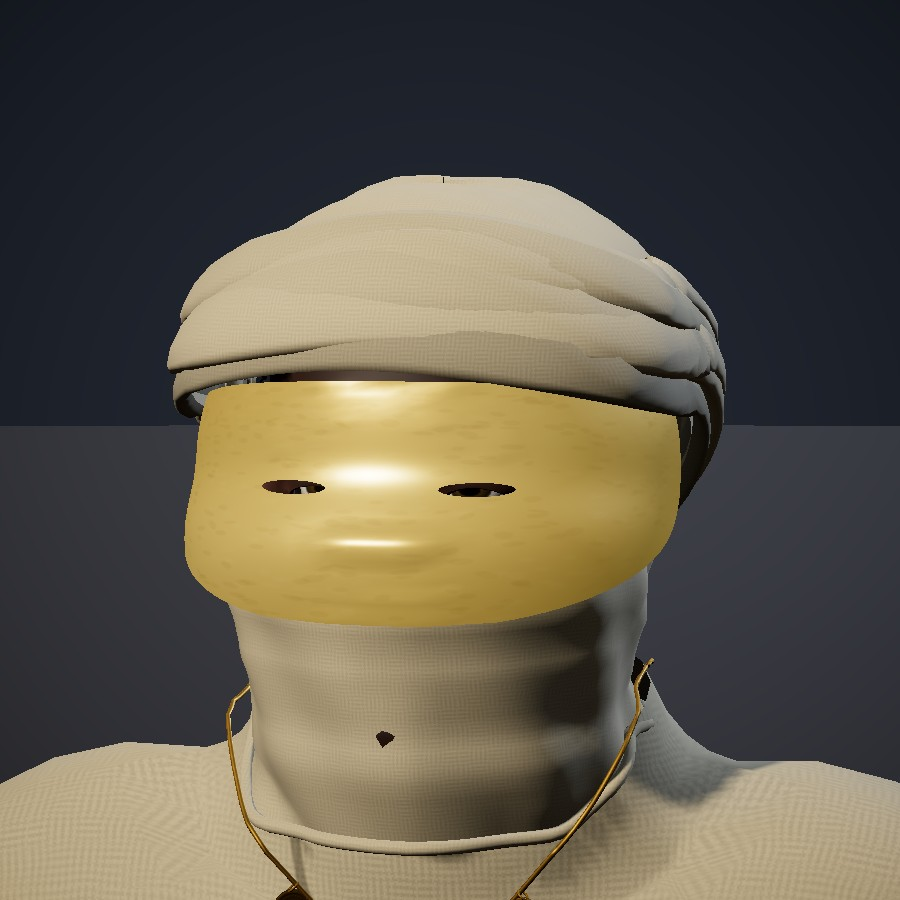
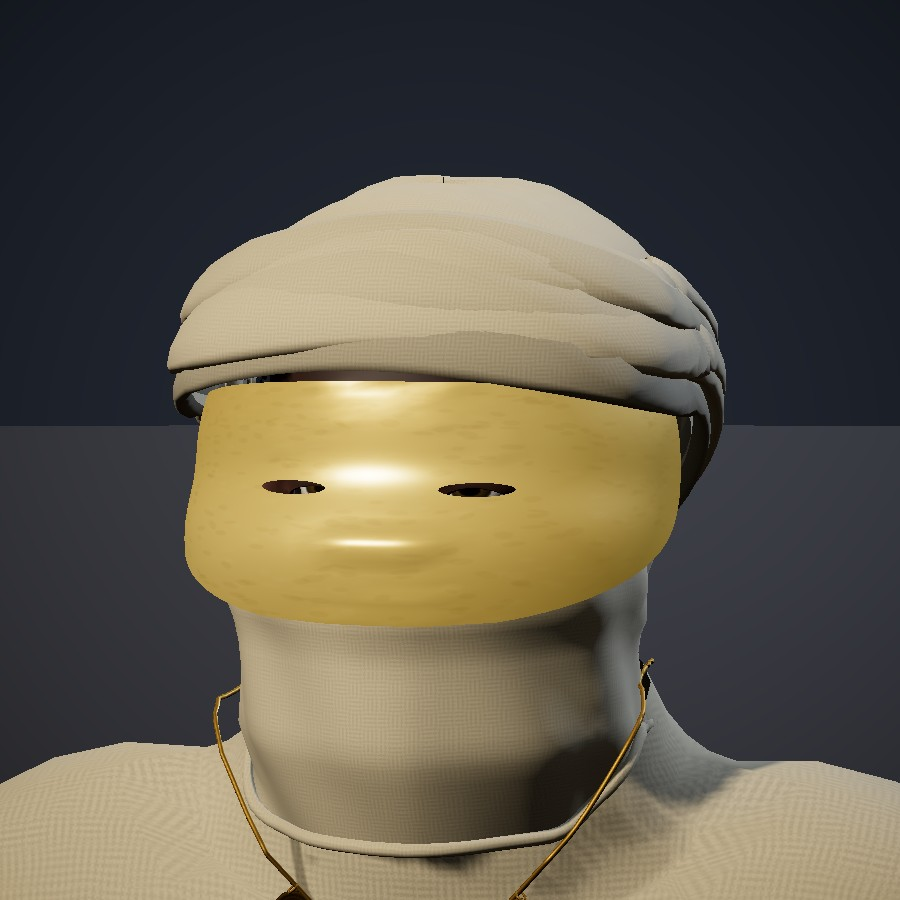
Bodies: Session 2760 — the veil clears the chin as the jaw is posed
Claude-Session: https://claude.ai/code/session_019eFMMohracwibgehk1K4PD

diff --git a/docs/prototypes/levelup/people.js b/docs/prototypes/levelup/people.js
@@ -2093,6 +2093,11 @@ function buildVeil(P, G, heads, byName, meshes, hairPts = []) {
   const put = (x, y, z) => { const b = Math.round((y - y0) / DY); if (b < 0 || b >= NB) return; const a = ((Math.round(Math.atan2(x - c.x, z - c.z) / TAU * NT) % NT) + NT) % NT; M[b * NT + a] = Math.max(M[b * NT + a], Math.hypot(x - c.x, z - c.z)); };
   const pts = []; for (const i of bodyV()) if (R0[i * 3 + 1] > .58 || R0[i * 3 + 1] > .5 && Math.abs(R0[i * 3]) < .08 && R0[i * 3 + 2] > 0) pts.push(V(i)); for (const q of hairPts) pts.push(q);
   for (const m of meshes) if (m.name === 'beard' || m.name === 'moust') { const a = m.geometry.attributes.position.array; for (let i = 0; i < a.length; i += 3) if (a[i + 1] > yLow - .005) pts.push(new THREE.Vector3(a[i], a[i + 1], a[i + 2])); }
+  // S2760 — the pose turns the jaw (pose.jaw, -0.12 rad unless given) after this fit, which brings the chin up to 6 mm forward; the lower face
+  // (under the lips, within the jaw's width) is laid a second time as the jaw will hold it, so the cloth clears both (it put a speck of the
+  // Veiled Merchant's chin through at 0 mm)
+  if (heads['jaw']) { const ja = G.pose?.jaw ?? -.12, J = heads['jaw'], rq = new THREE.Quaternion().setFromAxisAngle(new THREE.Vector3(1, 0, 0), ja);
+    for (const i of bodyV()) if (R0[i * 3 + 1] < .65 && R0[i * 3 + 1] > .55 && R0[i * 3 + 2] > .03 && Math.abs(R0[i * 3]) < .08) pts.push(V(i).sub(J).applyQuaternion(rq).add(J)); }
   for (const q of pts) put(q.x, q.y, q.z);
   // spread each bin over its neighbours, then let the cloth span: never in faster than it falls or goes round
   let S = new Float32Array(M.length); for (let b = 0; b < NB; b++) for (let a = 0; a < NT; a++) { let m = 0; for (let da = -1; da <= 1; da++) for (let db = -1; db <= 1; db++) { const bb2 = b + db; if (bb2 >= 0 && bb2 < NB) m = Math.max(m, M[bb2 * NT + (a + da + NT) % NT]); } S[b * NT + a] = m; }

diff --git a/vendor/people.builder.js b/vendor/people.builder.js
@@ -2391,6 +2391,11 @@ function buildVeil(P, G, heads, byName, meshes, hairPts = []) {
   const put = (x, y, z) => { const b = Math.round((y - y0) / DY); if (b < 0 || b >= NB) return; const a = ((Math.round(Math.atan2(x - c.x, z - c.z) / TAU * NT) % NT) + NT) % NT; M[b * NT + a] = Math.max(M[b * NT + a], Math.hypot(x - c.x, z - c.z)); };
   const pts = []; for (const i of bodyV()) if (R0[i * 3 + 1] > .58 || R0[i * 3 + 1] > .5 && Math.abs(R0[i * 3]) < .08 && R0[i * 3 + 2] > 0) pts.push(V(i)); for (const q of hairPts) pts.push(q);
   for (const m of meshes) if (m.name === 'beard' || m.name === 'moust') { const a = m.geometry.attributes.position.array; for (let i = 0; i < a.length; i += 3) if (a[i + 1] > yLow - .005) pts.push(new THREE.Vector3(a[i], a[i + 1], a[i + 2])); }
+  // S2760 — the pose turns the jaw (pose.jaw, -0.12 rad unless given) after this fit, which brings the chin up to 6 mm forward; the lower face
+  // (under the lips, within the jaw's width) is laid a second time as the jaw will hold it, so the cloth clears both (it put a speck of the
+  // Veiled Merchant's chin through at 0 mm)
+  if (heads['jaw']) { const ja = G.pose?.jaw ?? -.12, J = heads['jaw'], rq = new THREE.Quaternion().setFromAxisAngle(new THREE.Vector3(1, 0, 0), ja);
+    for (const i of bodyV()) if (R0[i * 3 + 1] < .65 && R0[i * 3 + 1] > .55 && R0[i * 3 + 2] > .03 && Math.abs(R0[i * 3]) < .08) pts.push(V(i).sub(J).applyQuaternion(rq).add(J)); }
   for (const q of pts) put(q.x, q.y, q.z);
   // spread each bin over its neighbours, then let the cloth span: never in faster than it falls or goes round
   let S = new Float32Array(M.length); for (let b = 0; b < NB; b++) for (let a = 0; a < NT; a++) { let m = 0; for (let da = -1; da <= 1; da++) for (let db = -1; db <= 1; db++) { const bb2 = b + db; if (bb2 >= 0 && bb2 < NB) m = Math.max(m, M[bb2 * NT + (a + da + NT) % NT]); } S[b * NT + a] = m; }

diff --git a/docs/backlog.md b/docs/backlog.md
@@ -928,7 +928,7 @@ Michael marked all 96 images of the intake on the review page: 63 KEEP and 33 NO
 - **The underworld** (OG-006): an information broker, a river smuggler, a contract killer whose hook cuts both ways, a cheerful goggled fence who knows relics, a highwayman-pilgrim. Fills the crime system's fences and black market. The Church of the Weaver needs its own sign where these sheets draw a cross. **Drafted 26 Oct** (`docs/quest_drafts.md`, *The Underworld*, unapproved): Philo the fence at Port Blackhand, Uallach the broker in Aurenne's capital, Brógán's black market on the Gatelands' river, Eadburh Two-Purses at Caer Slige's yard, Siadhal on the moor road; two rules for the systems builder (honest traders refuse goods stolen in their own town; a named Highwayman yields), the Church's sign a shuttle (canon §4.1). **Dressed in the kit, Session 2307** (Michael's B on #1611, one tell each): the five are `CAST` sheets in `people.js` (`Philo`, `Uallach`, `Brógán`, `Eadburh`, `Siadhal`), with the three tells as kit pieces (`lenses`, `purses`, `shuttle`) (~~the purses' cords slanted 1.3 rad off plumb~~ — fixed, Session 2322: each hangs from its neck, the cord 0.35 rad, the bag swung onto the tunic); they wear them in the game the day the draft's people are placed under those names.
 - **Townsfolk with names** (OG-065, OG-080, OG-089, OG-082): Fen Oisín, Bronwen, Perrin, Síle, Garrick; Tomas, the forager (renamed: Sera is taken), Father Eamon, Jora, Rivel; Mairead and the Salt and Lantern (moved from Ashenmoor, which has no pier), Darragh, Iliana, Brother Caelen, Lyra. Owed with them: names in each people's register, the Aurennais drawn fair recoloured, Garrick's musket a crossbow. **Prototype (concept artist, 20 Nov 2026):** OG-082's five (Mairead, Darragh, Iliana, Brother Caelen, Lyra), A the trade alone, B the sheet's faces and tools (recommended), C in their place with a set piece of the work (`docs/prototypes/levelup/townsfolk.html`; ready to ask, in `docs/concepts.md`).
 - **Travellers** (OG-051): Zahra al-Mahdi, Tavio Rusen, Sister Elidan, Khemrik Voss, Marco di Serra. Khemrik reads the gates, which the Withdrawal forbids: a candidate for one of the awake (§10a). **Drafted 28 Oct** (`docs/quest_drafts.md`, *Travellers*, unapproved): Zahra al-Mahdi's charts and *The Blank at {gate}*; Tidwulf, called Tid (the sheet's Tavio, in the Mark's register), a lair's bounty, his wolf his own; Sister Elidan of the shrines, who buys what the gates give back and asks a ring's name; Cuimín (the sheet's Khemrik, in the Old Blood's), one of the awake at a warm stone's door; Markos Serra (the sheet's Marco), who pays a fifth over for the same relics. One **Rule read** (an item from a gate carries `gate:true`). **The five as the builder's cast, Session 2414** (bodies builder; Michael's B on #1704, the sheet's faces; `people.js` `CAST`: `Zahra`, `Tidwulf`, `Elidan`, `Cuimín`, `Markos`, from the concept artist's `travellers.js` at B): Tid's ram skull lashed to his pack frame (`packSkull`) and Elidan's oak reliquary at her left hip (`reliquary`, hung from the belt or a robe's cord by `hangFromBelt`, the astrolabe's hang made general) are kit pieces now; `travellers.html?cast=1`, `travellers-cast-*.jpg`. Owed: the game, once the draft is approved and its people placed under these names (`hbCastName` then dresses them); Tid's wolf is the creature kit's.
-- **The strange and the legendary** (OG-054, OG-071, OG-079, OG-001's five figures): the Clockwork Pilgrim, the Rooted One, the Veiled Merchant who knows too much, the Painted Woman (different face, same eyes); Tomcán, Nell and her tusked beast, Elias, Branwen, Orvin; the Salt King, Sister Cairde, Red Finn, the Hollow Bard, the Wretched Abbot; the Veiled, the Collector, the Mariner, the Herald, the Child. Wanderers who turn up; several are candidates for the awake. No companions for the player (Michael's 12 A): the Gateborn Companion becomes a wanderer of its own, or is dropped. **Drafted, the first of three runs, 22 Nov** (`docs/quest_drafts.md`, *The Strange and the Legendary, I*, unapproved): OG-054 whole and OG-071's Branwen (the same Rooted One): Fiontán the pilgrim in the brass face (a mask, not a construct), a day behind the player on the road, and his book *The Road a Day Behind*; Bláthnat the Rooted One at a Gatelands shrine's tree, who tells a rare specimen's hour (`learnSpecCond`); the Veiled Merchant, one of the awake, who sells back what the player sold anywhere; the Painted Woman as the towns' talk; the Gateborn Companion dropped (§5, Michael's 12 A). Two **Rule reads** (the day's tally; the buy-back's union). **Michael's C on #1911 (OG-054 as drawn): the wanderers in the kit's cast**, one a session: ~~the Veiled Merchant~~ — done, Session 2759 (`CAST.Veiled`, `builder.html?cast=Veiled`; the face mask a kit piece, `D.mask` gold, brass or construct on the head bone, `buildFaceMask`; `strange-cast-veiled*.jpg`); owed: Fiontán (the construct, the patches, the ledger, the brass hands, the wheel), Bláthnat (the ivy, the birds, the twigs, seated on the root); the stall, the root and the portrait are the look builder's set pieces. **Run II, 23 Nov** (*The Strange and the Legendary, II*, unapproved): OG-071's other four. Tomcán the fool at a gate's mouth once a week, who plays the last thing you killed from its own side and gives his mask after three paid plays; Nell Dammer and Stump, a six-legged dammer (a creature for the bodies builder's kit; until it lands he stays in the river; #1950 B, half out at the bank; ~~his body in the kit~~ — done, Session 2627: `PLANS.dammer` in `creatures.js` and the game's bundle, 37 bones, 30,080 triangles under the coat; his place in the game waits on the run's approval), her wounds bound for raw meat and the Reeve's weir paid; Elias Nikandros, Aurennais, who buys the delvers' journals no shop takes and lends *A Register of the Forgotten*; Ordwin called Ord (renamed from the Norse Orvin), a ferryman at a Markish bridge who rows you over while it is down (S2283) and sends a verse to the Reeve's hall. Three **Rule reads** (where the fool sits; `stats.lastKill`; the crossing). **Run III, 24 Nov** (*The Strange and the Legendary, III*, unapproved): OG-079's four (Red Finn is *The Mark's Rings*'). Fergal Ó Sáile the Salt King, a Gatelander smuggler on a quay at night who tells where the black sails lie and has you carry salt to the island's hungriest village; Sister Cairenn the Gatewalker (renamed from Cairde, *friends*), Old Blood raised in the Gatelands, at a gate's mouth at dusk, who names a gate in the older words and counts the gates you have seen; the Hollow Bard at an inn's hearth, who trades a story of his (a place you have not been) for one of yours and makes yours a ballad (`BOOKS.bard_ballad`); Ammonius the Wretched Abbot of the dissolved Order of the Seal, at a plague town's well, who names the lair the sickness came from and asks you to end it. OG-001's Veiled and Collector are run I's Veiled Merchant and run II's Elias. Two **Rule reads** (where Cairenn stands; the Bard's hearth). **Run IV, 25 Nov** (*The Strange and the Legendary, IV*, unapproved): OG-001's last three. Godric called Knot, the Mariner, a Markman on a quay (8h–18h, a port a fortnight) who reads the water off the quay by `seaHabitat` and sends you down to his old ship (`seaWrecks`, `stats.wrecks`) for *Knot's Soundings*, whose last page is Aurenne's far side; the Herald in the gold sun mask, not the Crown's (Aldwyn says so), who cries in the square at noon what has been done (a stone read, a lair, a road, a bridge, a great gate) and gives *the Herald's Roll* at the seventh cry; Ailbhe, the Child, a Gatelander's daughter in a hill village in whom the Old Blood has come out, who points the way to the nearest warm stone and asks what it said. Two **Rule reads** (where the Herald comes from; the stone Ailbhe points at). The item is drafted whole; the four runs wait on Michael.
+- **The strange and the legendary** (OG-054, OG-071, OG-079, OG-001's five figures): the Clockwork Pilgrim, the Rooted One, the Veiled Merchant who knows too much, the Painted Woman (different face, same eyes); Tomcán, Nell and her tusked beast, Elias, Branwen, Orvin; the Salt King, Sister Cairde, Red Finn, the Hollow Bard, the Wretched Abbot; the Veiled, the Collector, the Mariner, the Herald, the Child. Wanderers who turn up; several are candidates for the awake. No companions for the player (Michael's 12 A): the Gateborn Companion becomes a wanderer of its own, or is dropped. **Drafted, the first of three runs, 22 Nov** (`docs/quest_drafts.md`, *The Strange and the Legendary, I*, unapproved): OG-054 whole and OG-071's Branwen (the same Rooted One): Fiontán the pilgrim in the brass face (a mask, not a construct), a day behind the player on the road, and his book *The Road a Day Behind*; Bláthnat the Rooted One at a Gatelands shrine's tree, who tells a rare specimen's hour (`learnSpecCond`); the Veiled Merchant, one of the awake, who sells back what the player sold anywhere; the Painted Woman as the towns' talk; the Gateborn Companion dropped (§5, Michael's 12 A). Two **Rule reads** (the day's tally; the buy-back's union). **Michael's C on #1911 (OG-054 as drawn): the wanderers in the kit's cast**, one a session: ~~the Veiled Merchant~~ — done, Session 2759 (`CAST.Veiled`, `builder.html?cast=Veiled`; the face mask a kit piece, `D.mask` gold, brass or construct on the head bone, `buildFaceMask`; `strange-cast-veiled*.jpg`); ~~the veil's chin through it as the jaw is posed~~ — fixed, Session 2760 (`buildVeil` lays the lower face again as the jaw holds it); owed: Fiontán (the construct, the patches, the ledger, the brass hands, the wheel), Bláthnat (the ivy, the birds, the twigs, seated on the root); the stall, the root and the portrait are the look builder's set pieces. **Run II, 23 Nov** (*The Strange and the Legendary, II*, unapproved): OG-071's other four. Tomcán the fool at a gate's mouth once a week, who plays the last thing you killed from its own side and gives his mask after three paid plays; Nell Dammer and Stump, a six-legged dammer (a creature for the bodies builder's kit; until it lands he stays in the river; #1950 B, half out at the bank; ~~his body in the kit~~ — done, Session 2627: `PLANS.dammer` in `creatures.js` and the game's bundle, 37 bones, 30,080 triangles under the coat; his place in the game waits on the run's approval), her wounds bound for raw meat and the Reeve's weir paid; Elias Nikandros, Aurennais, who buys the delvers' journals no shop takes and lends *A Register of the Forgotten*; Ordwin called Ord (renamed from the Norse Orvin), a ferryman at a Markish bridge who rows you over while it is down (S2283) and sends a verse to the Reeve's hall. Three **Rule reads** (where the fool sits; `stats.lastKill`; the crossing). **Run III, 24 Nov** (*The Strange and the Legendary, III*, unapproved): OG-079's four (Red Finn is *The Mark's Rings*'). Fergal Ó Sáile the Salt King, a Gatelander smuggler on a quay at night who tells where the black sails lie and has you carry salt to the island's hungriest village; Sister Cairenn the Gatewalker (renamed from Cairde, *friends*), Old Blood raised in the Gatelands, at a gate's mouth at dusk, who names a gate in the older words and counts the gates you have seen; the Hollow Bard at an inn's hearth, who trades a story of his (a place you have not been) for one of yours and makes yours a ballad (`BOOKS.bard_ballad`); Ammonius the Wretched Abbot of the dissolved Order of the Seal, at a plague town's well, who names the lair the sickness came from and asks you to end it. OG-001's Veiled and Collector are run I's Veiled Merchant and run II's Elias. Two **Rule reads** (where Cairenn stands; the Bard's hearth). **Run IV, 25 Nov** (*The Strange and the Legendary, IV*, unapproved): OG-001's last three. Godric called Knot, the Mariner, a Markman on a quay (8h–18h, a port a fortnight) who reads the water off the quay by `seaHabitat` and sends you down to his old ship (`seaWrecks`, `stats.wrecks`) for *Knot's Soundings*, whose last page is Aurenne's far side; the Herald in the gold sun mask, not the Crown's (Aldwyn says so), who cries in the square at noon what has been done (a stone read, a lair, a road, a bridge, a great gate) and gives *the Herald's Roll* at the seventh cry; Ailbhe, the Child, a Gatelander's daughter in a hill village in whom the Old Blood has come out, who points the way to the nearest warm stone and asks what it said. Two **Rule reads** (where the Herald comes from; the stone Ailbhe points at). The item is drafted whole; the four runs wait on Michael.
 - **Families and feuds** (OG-090): House Velasco (Aurenne), the Ironmere clan and its feud (the Mark), the Caelmont house (Gatelands, in the Crown's crimson, not blue), the Sorrowvale lines (Old Blood, black-haired), the Redmarsh Syndicate. **Drafted 21 Nov** (`docs/quest_drafts.md`, *Families and Feuds*, unapproved): the house Velleius (the register's name for Velasco), the Ironmeres and the Stannards (*Finished by Noon*), Lady Clémence de Caelmont and her son, Muirgel and Ciarnait of Gleann an Bhróin (*Sorrowvale* to Gatelanders), Muireann of the Redmarsh; five threads on a *deliver*, a *find*, the tithe-ship's hail and the yard; `worldState.families`, the world's. **Prototype (concept artist, 21 Nov 2026):** the draft's eleven by house, A by their people and station, B the draft's faces and one sign of the house (recommended), C OG-090 as drawn with each house's banner, the furs, the knight, the glen's stone and the fen punt (`docs/prototypes/levelup/families.html`; ready to ask, in `docs/concepts.md`).
 - **Faith** (OG-091): Mother Amani, Brother Alain (an Aurennais hunter of salvagers), Shevra the tide-reader (not a priest: the Mark scorns them), Father Calix (one of the awake or a villain, never the surface tone), the Veiled Child. **Drafted 27 Oct** (`docs/quest_drafts.md`, *Faith*, unapproved: Mother Amani's lamp carried to a gate's door, Brother Alain a Crown-born convert who searches packs for rubbings and hunts Calix, Sæwynn called Shevra reading `WX.next` for a fish at Port Blackhand, Calix one of the awake at a gate's door at dusk, the Veiled Child sweeping one Gatelands shrine a week; one **Rule read**, the Church's note for a refused search). **Prototype (concept artist, 19 Nov 2026):** the draft's five in the people kit at the draft's corrected bodies, before the Gatelands' row of the six gods and the Guest's niche: A by their calling only (a priest's white robe and head-cloth, a Church brother's habit with the shuttle, a fishwife's coat and lantern, a plain robe, an Old Blood girl's undyed wool and a broom), B the draft's faces (Amani's caged lantern on her staff, Alain hooded in white over mail, Sæwynn's salt-pale plait, shells and a lantern on a driftwood crook, Calix's gilt sunburst on his cape and the smiling mask, the child under a white veil to the waist; recommended), C OG-091 as drawn (the blue mantle and the gilt lantern, Alain's white cloak and sword, the salt-crusted robe and bones, Calix's halo on a rod and three masks, the veil to the ground); `docs/prototypes/levelup/faith.html`. Ready to ask (five decisions already wait on Michael).
 - **Rival adventurers** (OG-083): gate-clearers who race you for a find or hire out as guides. Rename the scout called Varek; the villain's name is reserved. **Drafted 29 Oct** (`docs/quest_drafts.md`, *Rivals*, unapproved): Cynric Stonehand the Markish guide (a gate's school for ten gold; his pick left at a door), Lysandra Per-Akhet the Aurennais patron (an expedition raced against the knight), Alard de Drac the unmade Knight of the Gates (the race remembered), Ailill the Old Blood seeker (a gate's condition at its door; a failing gate left a week, one **Rule read**), Tadhg Ó Faoláin the scout, renamed from the sheet's *Varek* (who is below this week; a wounded man not left). **Prototype (concept artist, 18 Nov 2026):** the draft's five in the people kit at the draft's corrected bodies, A as the draft dresses them, B armed as the player is armed (the three who go in wear the game's own armour at their tier under the trade's dress; recommended), C OG-083 as drawn (the banner, the gold lion and the great helm worn, the starred robe); `docs/prototypes/levelup/rivals.html`. Ready to ask (five decisions already wait on Michael).

diff --git a/docs/devlog/2760.md b/docs/devlog/2760.md
@@ -1,0 +1,38 @@
+## v80 — Session 2760 — the veil clears the chin as the jaw is posed
+The same run as Session 2759, on `auto/bodies-2759`. That session found a dark speck on the Veiled Merchant's veil, low on the face. It
+showed with no mask and no necklace, and it went when the body was hidden. The veil's own count (`p.veil.out`) read 0 of 3,836 points
+through. A correction to S2759's note: the speck is the chin's front, not the throat under it. A fix to today's bodies (the lane's item 6): the veil (S1237) is worn in the game by every veiled Aurennais on the road (S2343).
+
+**What was wrong.** The veil is fitted round the face before the pose. Its radial map is laid over the body's points as `morph` leaves
+them, 5 mm clear. The pose then turns the jaw (`pose.jaw`, −0.12 rad unless a genome gives one; S1082's pose block). That brings the chin
+and the lower lip, which ride the jaw bone at 0.68–0.80, forward by up to about 6 mm. The veil rides the head bone, not the jaw, so it
+stays where it was fitted. The fit's own count measures the unposed face, so it could not see this. On most faces the cloth's span
+from the nose's tip leaves room over the chin. On the Merchant's it did not: four points at the chin's front (pack vertices 5162, 5211,
+11771 and 11824, rest height 0.627–0.633) were 0.3 mm out.
+
+**What changed** (`docs/prototypes/levelup/people.js`, `buildVeil`; the bundle rebuilt with `--pack /nonexistent`, `vendor/mh-pack.js`
+untouched). The lower face is laid on the veil's map a second time, as the jaw will hold it: every body point under the lips (rest height
+0.55 to 0.65), in front (z over 3 cm) and within the jaw's width (|x| under 8 cm), turned about the jaw bone's head by the pose's jaw
+angle. The map keeps the further of the two at each bin, so the cloth clears both. This copy turns each point by the whole jaw angle,
+not by its share of the jaw's weight, so it errs by a little extra room. No triangle changed (6,528).
+
+A probe of my own found it (`tests/tmp`, thrown away). It casts a ray from the veil's axis out through every drawn point of the posed
+face's front, 5 cm either side of the middle, and takes the cloth's distance less the point's. The probe's first version counted
+MakeHuman's helper vertices, which the body does not draw (the `helper-hair` group, 18,7xx–18,9xx); it now reads only indexed points.
+
+### Verified (headless Chromium)
+- The probe, posed, the least gap at the face's front: the Merchant −0.3 mm before, 3.9 mm after. Three rolled Aurennais (v1, v2,
+  a man, a woman): 4.3 and 3.8 mm before, 4.3 and 4.0 after. Five wearers have 0 points within 1 mm.
+- `builder.check.mjs`: all passed, 701 checks (+1: the Merchant's veil as posed, 3.9 mm at the least over 1,307 points of the face's front;
+  red on 2759's build at −0.3 mm). The veil block's own checks (S1237's three wearers) are unchanged and green.
+- `f4people` 86/86 on the rebuilt bundle.
+- `people_bundle.py --check`: matches. `parsecheck` OK.
+- Pictures: `docs/prototypes/levelup/veil-chin-2760-before.jpg` and `veil-chin-2760.jpg`, the Merchant's veil with no mask: the speck
+  under the mouth, then none. `strange-cast-veiled-face.jpg` and `-turn.jpg` are retaken on this build.
+
+### Needs eyes
+- A veil now stands 1–4 mm further off some chins than before, only where the jaw's turn needed it. From the side that is no change
+  anyone should see.
+- The other pieces fitted on the unposed face (the circlet, the mask, the spectacles' rims, the pipe) ride the head bone and miss the jaw's
+  turn by the same means. The mask is clear by 4 mm over its whole outline, and only the veil reaches below the lips. The brass and the
+  construct run to the chin, so they are Fiontán's to check when he is built.

diff --git a/docs/devlog/2759.md b/docs/devlog/2759.md
@@ -1,5 +1,5 @@
 ## v80 — Session 2759 — the Veiled Merchant in the kit's cast, and the face mask a kit piece (Michael's C on #1911)
-The bodies builder's run of 28 Nov (09:40 UTC), on `auto/bodies-2759` from origin/main at s2080 (`22c1d114`). No `FREEZE:` issue was open,
+The bodies builder's run of 28 Nov (09:15 UTC), on `auto/bodies-2759` from origin/main at s2080 (`22c1d114`). No `FREEZE:` issue was open,
 no PR was open, and the last bodies branch (2756, #2156) had landed. Section I has nothing open for this lane. Michael's builder notes #272
 and #274 are finished, and what is left in backlog L for bodies waits on rules or placements. So this session takes decided work the kit had
 not picked up: Michael's C on #1911 (22 Nov), *OG-054 as drawn*, for the first run of *The Strange and the Legendary* (the quest writer's
